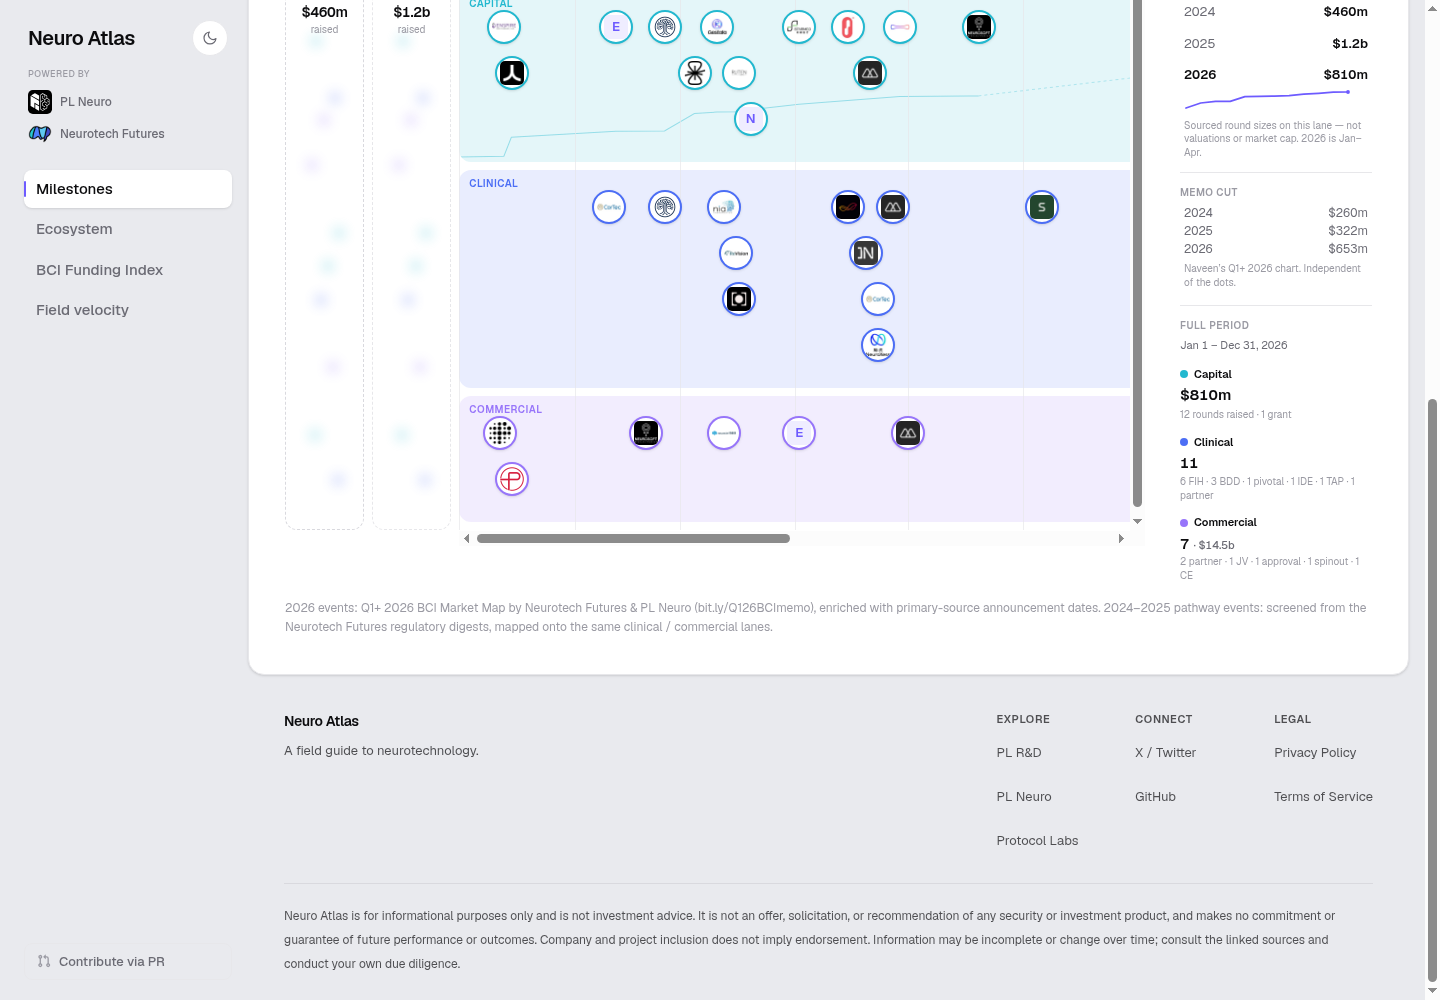
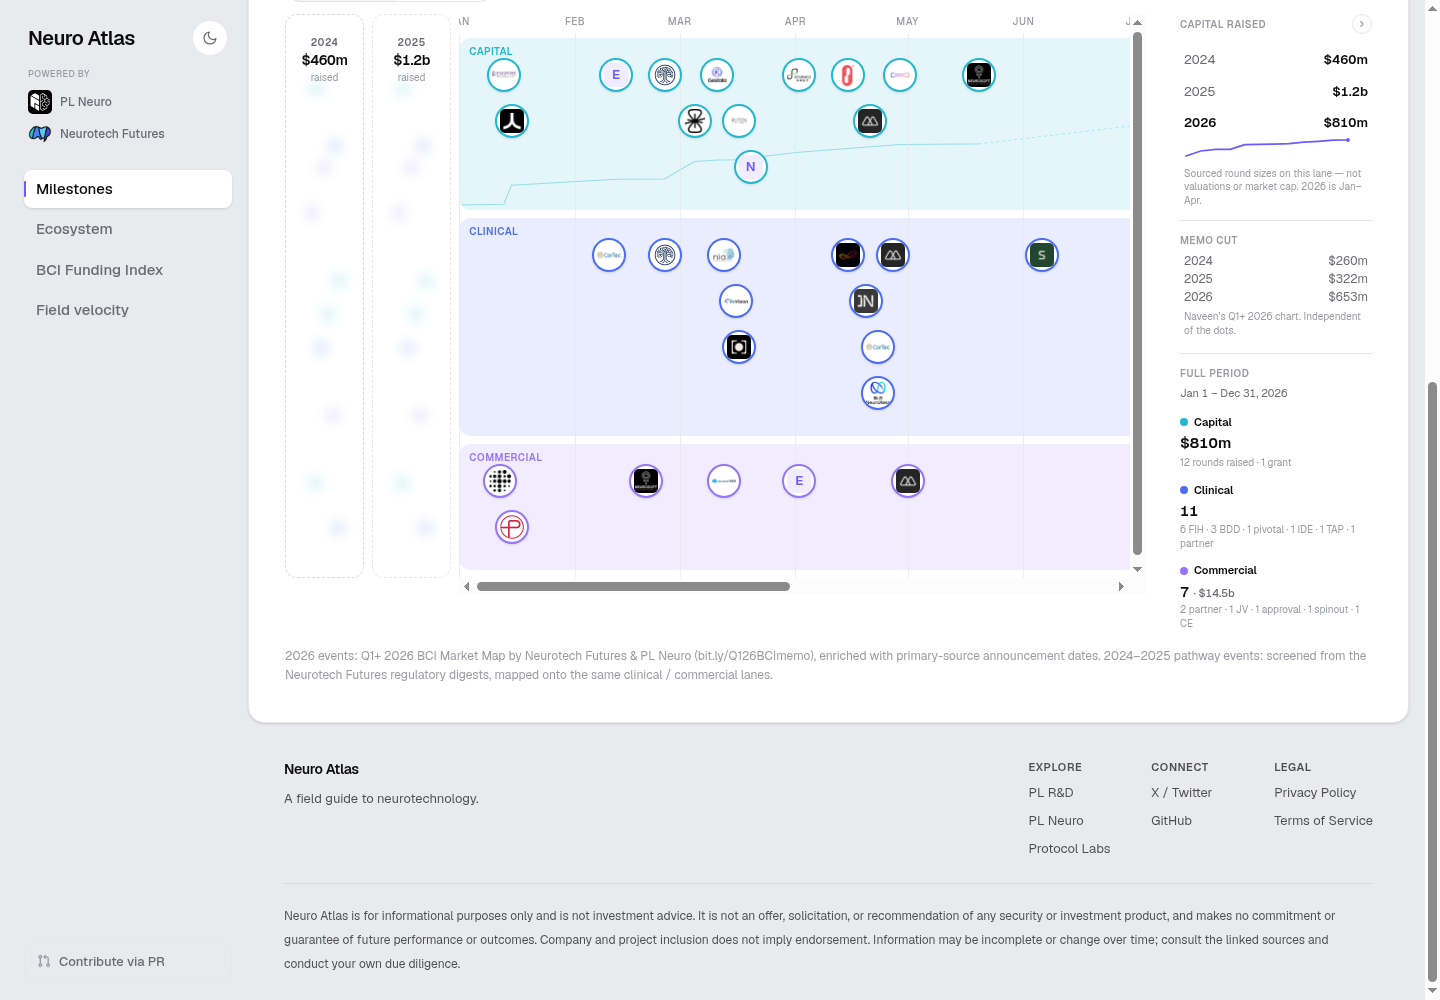
docs: refresh compact footer screenshots and QA

diff --git a/docs/site-footer.md b/docs/site-footer.md
@@ -18,13 +18,13 @@ No CC-BY or blanket ownership claim is copied from PL R&D: third-party data righ
 
 - `npm ci`; `npm test` (83 passing); `npm run typecheck`; production `npm run build`.
 - Changed-file ESLint passes. Full-project lint still reports the three pre-existing errors in `milestone-timeline.tsx` and `theme-toggle.tsx`. The unchanged dependency lock retains two high and one critical audit advisory; framework upgrades are outside this change.
-- `scripts/qa/footer-browser.py`, executed through the headed browser harness against a local production build, checks one footer outside `main` on all six content routes, seven destinations, no document overflow, 44px minimum link targets, and text contrast >= 4.5:1 at 1440px, 390px, and 320px in light/dark mode.
+- `scripts/qa/footer-browser.py`, executed through the headed browser harness against a local production build, checks one footer outside `main` on all six content routes, seven destinations, no document overflow, compact 28px desktop link rows, preserved 44px minimum targets for coarse/touch pointers (including wide touch screens), and text contrast >= 4.5:1 at 1440px, 390px, and 320px in light/dark mode. The column gap is 24px above the small breakpoint and 16px below it.
 - Light-theme small text was darkened after a 4.39:1 contrast failure. Final browser-composited text passes in both themes.
-- Independent candidate review found the same contrast issue; the bounded final review passed application revision `00c6d49` (runtime code unchanged by the evidence commit).
+- The initial independent review caught the contrast issue. For the compact-spacing follow-up, the browser regression failed on baseline (40px columns / 44px desktop rows), then passed application revision `6451801` (24px columns / 28px desktop rows). Fresh-skeptical visual/code review passed: only spacing changes, no clipped or overlapping links, unchanged copy and focus styles. The mobile check also preserves wrapped legal links and touch targets.
 
 ### Screenshot provenance
 
-Screenshots in `footer/` show `/milestones` served from an isolated local production build of application revision `00c6d49`. Its only application difference is the established uncommitted local-only auth fixture, bound to loopback. The actual PR leaves hosted Basic Auth unchanged. These are local browser screenshots, not proof of authenticated hosted access. Final QA waits for the existing 150ms link-color transition before measuring contrast.
+Screenshots in `footer/` show `/milestones` served from an isolated local production build of application revision `6451801`. Its only application difference is the established uncommitted local-only auth fixture, bound to loopback. The actual PR leaves hosted Basic Auth unchanged. These are local browser screenshots, not proof of authenticated hosted access. Final QA waits for the existing 150ms link-color transition before measuring contrast.
 
 Replay (against an isolated local fixture, never a production auth change):
 
